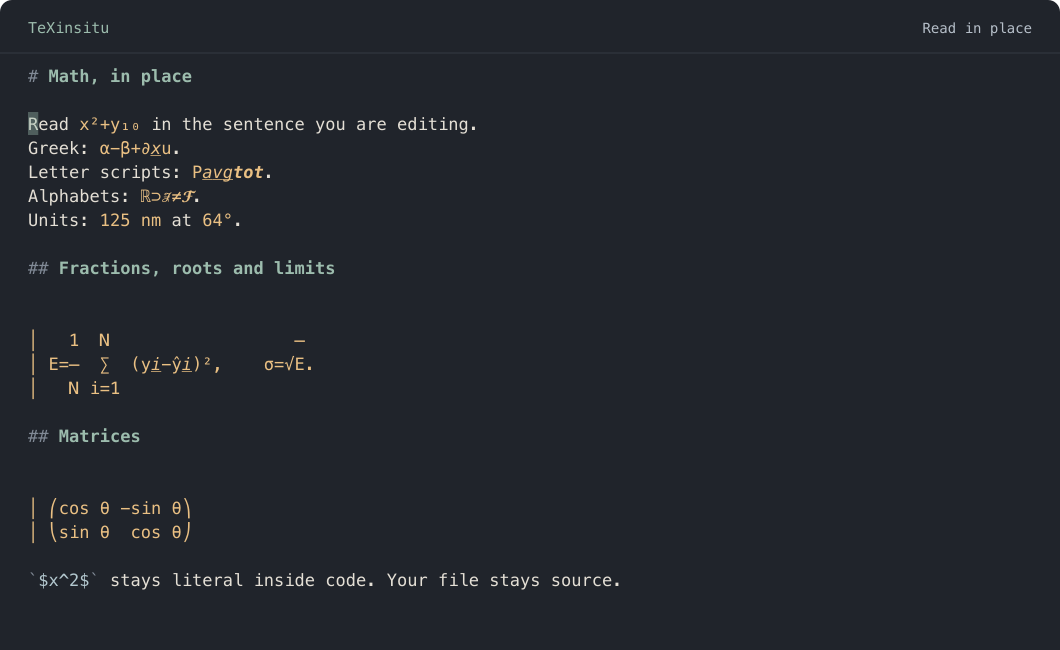
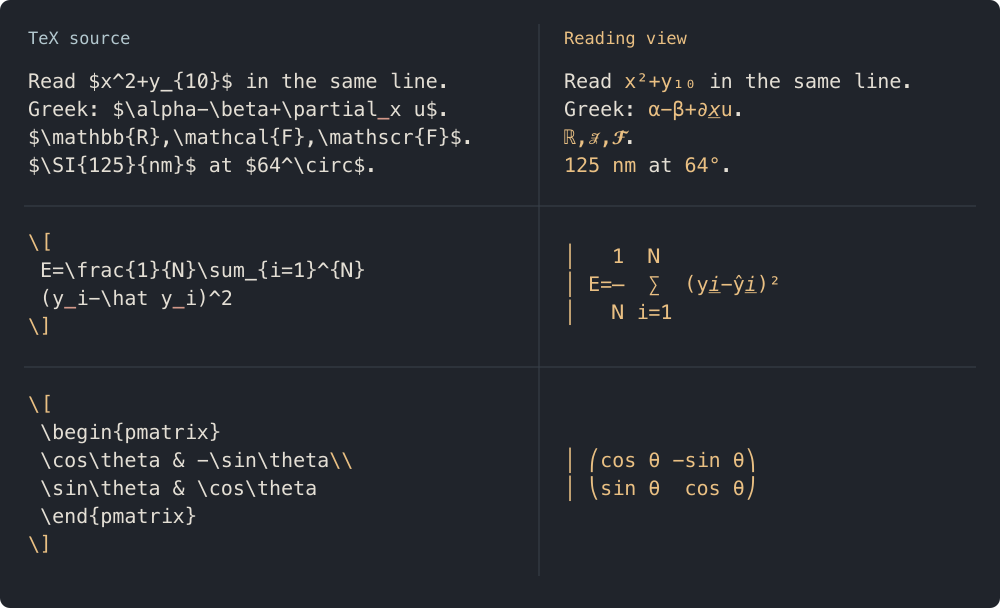
Show source and Vim reading view side by side

diff --git a/README.md b/README.md
@@ -5,10 +5,10 @@
 TeXinsitu renders formulas inside your TeX, Markdown and Cogitatum source in
 Vim. Move into a formula to edit its TeX; move out to read it again.
 
-![Vim: inline math and display equations render in place; entering a formula reveals its source while neighbouring formulas stay rendered.](doc/demo.gif)
+![TeX source beside its actual Vim reading view: inline scripts, Greek and mathematical alphabets, units, a fraction with summation, and a two-dimensional matrix.](doc/demo.png)
 
-*Terminal Vim screen cells and styles, captured with Menlo. [Static view](doc/demo.png)
-· [Open the example](examples/demo.md).*
+*Source and reading views of [the same example](examples/demo.md), captured
+from terminal Vim with Menlo. The comparison uses Vim's actual cells and styles.*
 
 - **Stay in the paragraph.** Inline math lives beside your prose. Fractions,
   roots, sums and matrices get two-dimensional layouts in display equations.
@@ -17,6 +17,15 @@ Vim. Move into a formula to edit its TeX; move out to read it again.
 - **Keep the source.** Yank, search, undo and save operate on the original TeX.
 - **Keep it quick.** One resident Rust process caches formulas; moving the
   cursor repaints only the affected formulas.
+
+<details>
+<summary>Watch the cursor reveal a formula and a whole equation block</summary>
+
+![Moving into an inline formula reveals only that formula; entering a display equation reveals the whole block. Nearby formulas stay rendered.](doc/demo.gif)
+
+The source stays in its original position. Move out to render it again.
+
+</details>
 
 ## Install
 
@@ -217,4 +226,8 @@ for early layout inspiration.
 
 ## Related
 
-TeXinsitu is one of a small family of Vim plugins for writing: [MdToc.vim](https://github.com/BaksiLi/mdtoc.vim), [WebPreview.vim](https://github.com/BaksiLi/webpreview.vim) and [TeXinsitu.vim](https://github.com/BaksiLi/texinsitu.vim). Each works on its own. They were developed together in [Onesimus Vim](https://github.com/BaksiLi/Onesimus), a Vim distribution for scientific writing, which shows them combined.
+TeXinsitu is one of a small family of Vim plugins for writing, alongside
+[MdToc.vim](https://github.com/BaksiLi/mdtoc.vim) and
+[WebPreview.vim](https://github.com/BaksiLi/webpreview.vim). Each works on its
+own. They were developed together in [Onesimus Vim](https://github.com/BaksiLi/Onesimus),
+a Vim distribution for scientific writing.

diff --git a/examples/demo.md b/examples/demo.md
@@ -1,22 +1,18 @@
-# Math, in place
-
-Read $x^2+y_{10}$ in the sentence you are editing.
+Read $x^2+y_{10}$ in the same line.
 Greek: $\alpha-\beta+\partial_x u$.
-Letter scripts: $P_{\mathrm{avg}}^{\mathrm{tot}}$.
-Alphabets: $\mathbb{R}\supset\mathcal{F}\ne\mathscr{F}$.
-Units: $\SI{125}{nm}$ at $64^\circ$.
-
-## Fractions, roots and limits
+$\mathbb{R},\mathcal{F},\mathscr{F}$.
+$\SI{125}{nm}$ at $64^\circ$.
 
 \[
- E=\frac{1}{N}\sum_{i=1}^{N}(y_i-\hat y_i)^2,
- \qquad \sigma=\sqrt{E}.
+ E=\frac{1}{N}\sum_{i=1}^{N}
+ (y_i-\hat y_i)^2
 \]
-
-## Matrices
 
 \[
- \begin{pmatrix}\cos\theta&-\sin\theta\\\sin\theta&\cos\theta\end{pmatrix}
+ \begin{pmatrix}
+ \cos\theta & -\sin\theta\\
+ \sin\theta & \cos\theta
+ \end{pmatrix}
 \]
 
-`$x^2$` stays literal inside code. Your file stays source.
+`$x^2$` stays source inside code.
